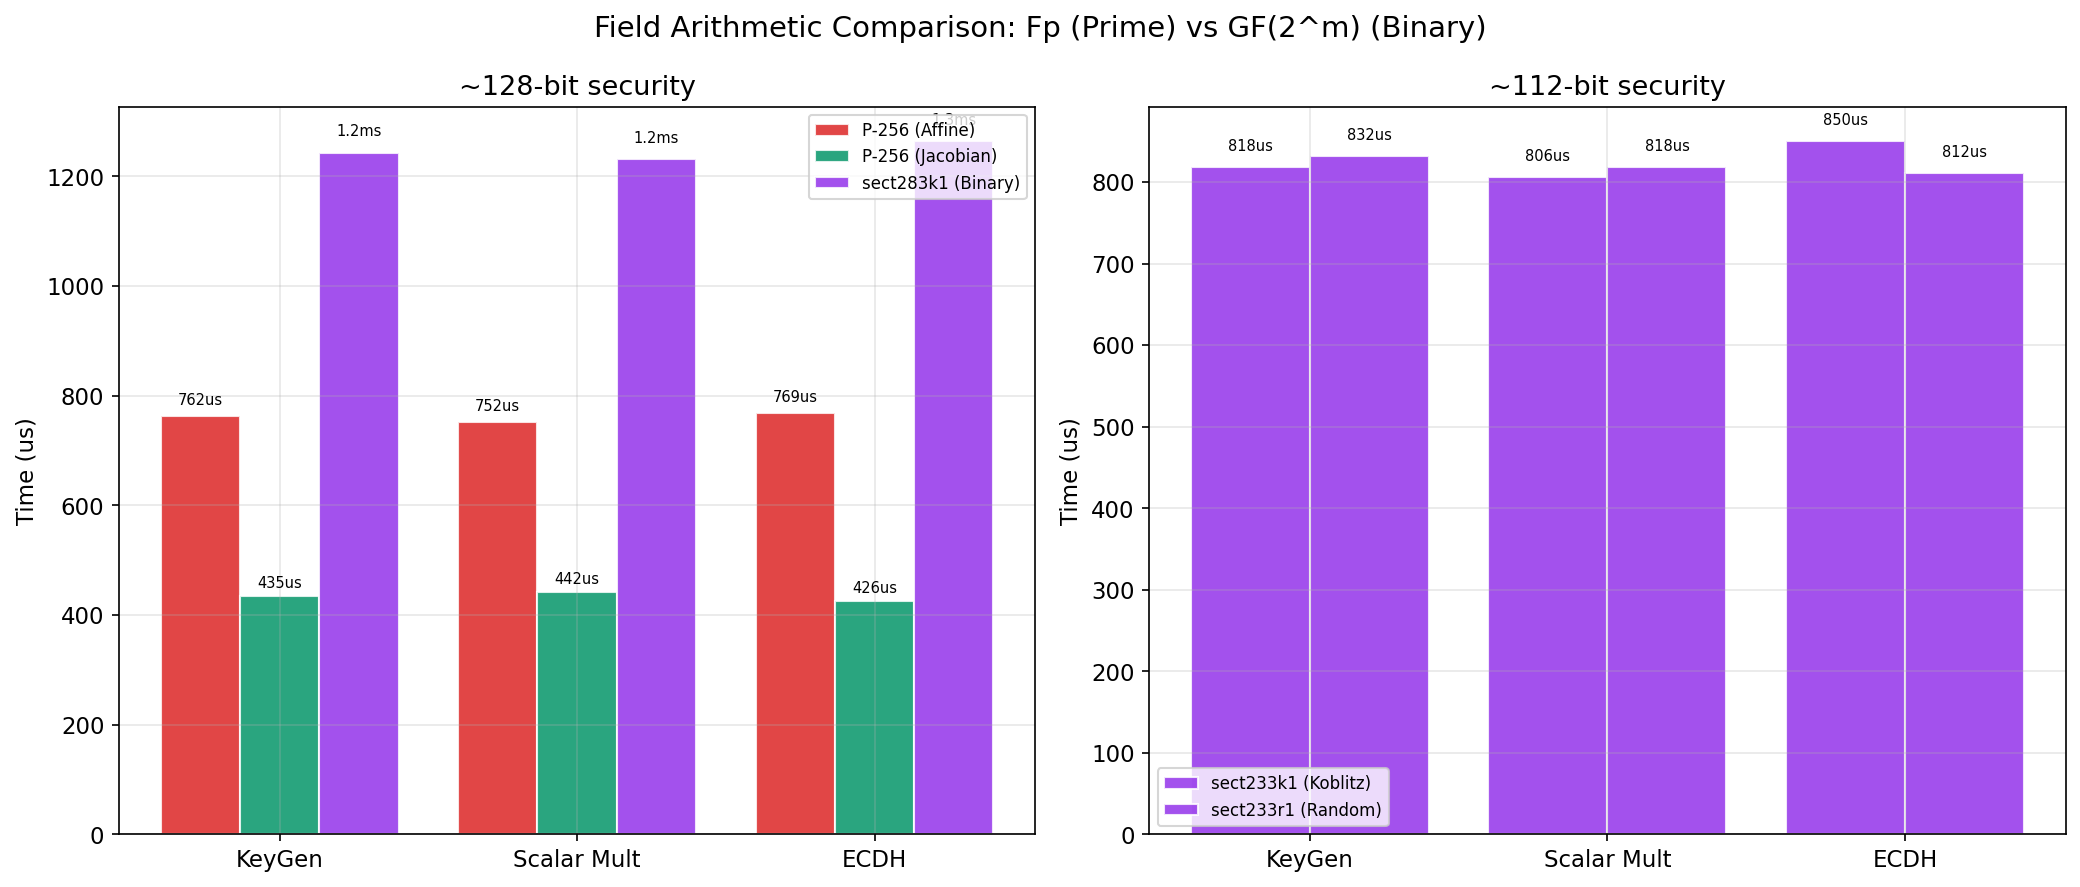
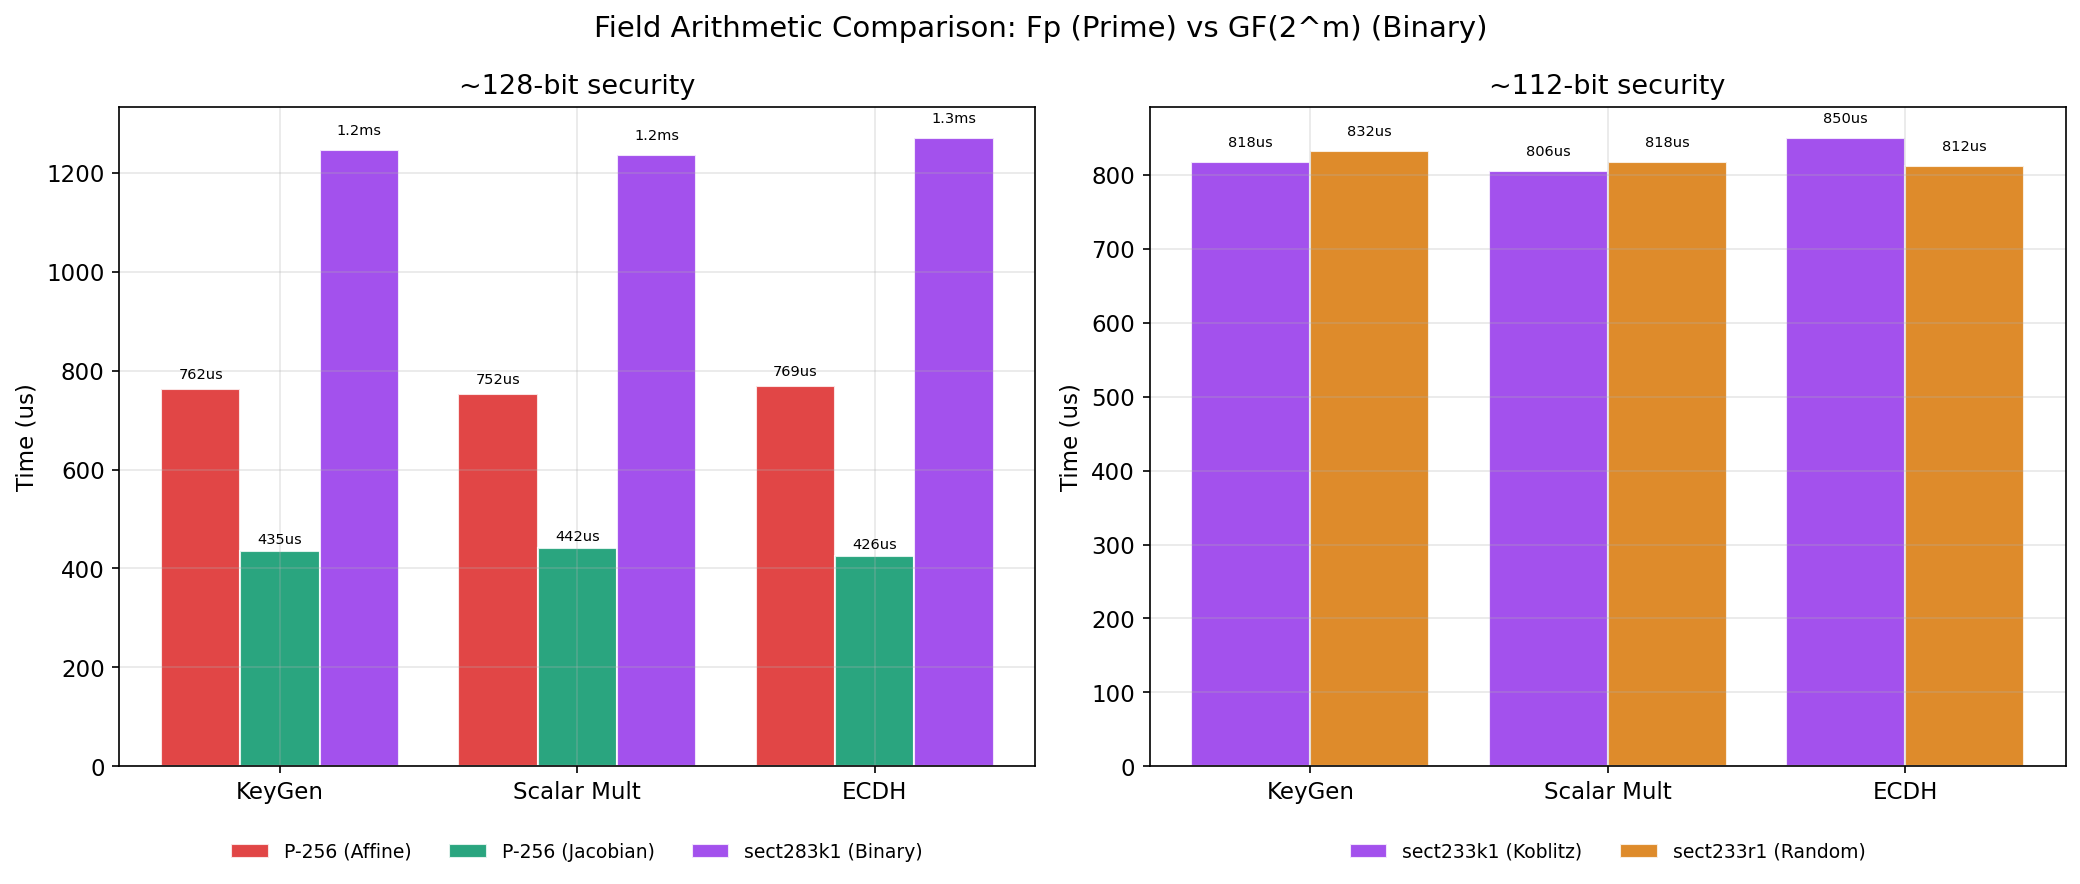
feat: add Pollard rho attack GIF generation and related images for enhanced presentation

diff --git a/docs/presentacion_defensa/presentacion_defensa.tex b/docs/presentacion_defensa/presentacion_defensa.tex
@@ -16,6 +16,7 @@
 \usepackage{amsmath,amssymb}
 \usepackage{booktabs}
 \usepackage{graphicx}
+\usepackage{animate}   % rho de Pollard animado dentro de una sola diapositiva
 \usepackage{tikz}
 \usetikzlibrary{positioning,arrows.meta,arrows,calc,fit,backgrounds}
 \newsavebox{\arqbox}   % caja para capturar el diagrama de arquitectura
@@ -210,15 +211,6 @@
       \end{block}
     \end{column}
   \end{columns}
-  \vfill
-  \footnotesize\centering El instrumento de medida es parte del objetivo: un
-  \alert{banco de pruebas propio} en C++17, contenedorizado y automatizado de extremo a
-  extremo, donde cada resultado se \textbf{reproduce con un comando}.
-  \note{Implemento ambos en C++17. Tres ejes, cada uno una pregunta. Separar álgebra de
-  implementación. El cuarto elemento es el instrumento: banco de pruebas propio,
-  arquitectura reproducible (Docker+semilla fija), medicion sin sesgos
-  (calentamiento+repeticiones+mediana), C++17+NTL/GMP, todo automatizado (make reproduce).
-  Detalle en la seccion de ingenieria.}
 \end{frame}
 
 %==============================================================================
@@ -478,28 +470,38 @@
 
 \begin{frame}{Atacar el ECDLP: el algoritmo rho de Pollard}
   \begin{columns}[c]
-    \begin{column}{0.44\textwidth}
-      \footnotesize
-      Mejor ataque \alert{genérico} conocido:
-      \begin{itemize}\footnotesize
-        \item Paseo \alert{pseudoaleatorio} sobre el grupo de puntos.
-        \item Por la \alert{paradoja del cumpleaños}, aparece pronto una \alert{colisión}:
-              el camino entra en un ciclo (forma de $\rho$: cola $+$ ciclo).
-        \item Detección de ciclo con poca memoria (Floyd: tortuga/liebre). De la colisión se
-              despeja $k$.
-      \end{itemize}
-      \vspace{0.5ex}
-      \begin{block}{Coste}
-        $O(\sqrt{n})$ en tiempo, $O(1)$ en memoria $\Rightarrow$ \alert{exponencial} en bits.
-      \end{block}
-    \end{column}
-    \begin{column}{0.56\textwidth}
+    \begin{column}{0.64\textwidth}
       \centering
-      \figordemo[width=\textwidth]{imagenes/attack_pollard_rho.png}
+      % Animación en UNA sola página: 9 fotogramas (extraídos de
+      % results/pollard_rho.gif, regenerable y visualizable con `make pollard`).
+      % Se reproduce en bucle en visores con JavaScript (Adobe Acrobat, Foxit,
+      % PDF-XChange); en el resto (Okular, Evince...) queda el fotograma final
+      % como imagen fija (poster=last). Demo en vivo: `make pollard`.
+      \animategraphics[autoplay,loop,poster=last,width=\textwidth]{2}%
+        {imagenes/pollard/rho-}{0}{8}
+    \end{column}
+    \begin{column}{0.34\textwidth}
+      \centering
+      \figordemo[height=0.55\textheight]{imagenes/attack_pollard_rho_ciclo.png}
     \end{column}
   \end{columns}
-  \note{Rho de Pollard: paseo pseudoaleatorio, colision por cumpleanos, forma de rho, Floyd,
-  se despeja k. O(sqrt n) tiempo, O(1) memoria. NO confundir con rho para factorizacion.}
+
+  \vspace{0.3em}
+  \scriptsize\centering Paseo \alert{pseudoaleatorio} con cada punto escrito como
+  $R_i = a_i P + b_i Q$; por la \alert{paradoja del cumpleaños} llega la \alert{colisión}
+  $R_i = R_j$ y se despeja
+  $\boxed{\,k \equiv (a_i - a_j)\,(b_j - b_i)^{-1} \pmod{n}\,}$\\[0.3ex]
+  \textbf{Coste:} $O(\sqrt{n})$ tiempo, $O(1)$ memoria $\Rightarrow$ \alert{exponencial}
+  en bits.
+  \note{Rho de Pollard animado: paseo pseudoaleatorio sobre la curva y^2=x^3+2x+3 mod 83,
+  P=(0,13), n=43, Q=14P. Tortuga un paso, liebre dos (Floyd); colision en el paso 10 y se
+  despeja d=14, verificado. Derecha: estructura rho abstracta, cola lambda + ciclo mu (de
+  ahi el nombre del algoritmo). Formula: cada punto del paseo es R_i = a_i P + b_i Q; en la
+  colision R_i = R_j se igualan y se despeja k = (a_i-a_j)/(b_j-b_i) mod n. Por la paradoja
+  del cumpleanos la colision llega en ~sqrt(pi n/2) ~ 1.25 sqrt(n) pasos. O(sqrt n) tiempo,
+  O(1) memoria: exponencial en bits. NO confundir con el rho de factorizacion. La animacion
+  se reproduce sola en Acrobat/Foxit; en Okular/Evince se ve el fotograma final. Demo en
+  vivo: make pollard abre el GIF.}
 \end{frame}
 
 %==============================================================================
@@ -647,7 +649,7 @@
 \end{frame}
 
 %==============================================================================
-\section{Ingeniería del banco de pruebas}
+\section{Metodología experimental e implementación}
 
 \begin{frame}{Elección del \emph{stack}: C++17 + NTL/GMP}
   \small
@@ -656,18 +658,16 @@
       \textbf{Lo elegido}
       \begin{itemize}\footnotesize
         \setlength{\itemsep}{2pt}
-        \item \alert{C++17}: control total del camino caliente; sin recolector de basura
+        \item \alert{C++17}: control total; sin recolector de basura
               ni intérprete que contaminen los tiempos.
         \item \alert{NTL 11.5.1 sobre GMP 6.3.0}: la referencia en aritmética de precisión
               arbitraria (\texttt{ZZ\_p} para $\mathbb{F}_p$, \texttt{GF2E} para
               $\mathbb{F}_{2^m}$).
-        \item \alert{SHA-256 propio} (FIPS 180-4): el hash de ECDSA sin dependencias
-              externas que alteren las medidas.
-        \item OpenSSL 3.0.2: \textbf{solo} como \emph{baseline} externo de contraste.
+        \item OpenSSL 3.0.2: \textbf{solo} como baseline externo de contraste.
       \end{itemize}
     \end{column}
     \begin{column}{0.46\textwidth}
-      \textbf{Lo descartado (y por qué)}
+      \textbf{Lo descartado}
       \begin{itemize}\footnotesize
         \setlength{\itemsep}{2pt}
         \item \textbf{Python / Sage}: esconden justo la aritmética que se quiere estudiar
@@ -687,28 +687,37 @@
   ensamblador, no los algoritmos.}
 \end{frame}
 
-\begin{frame}{Tres retos de ingeniería (y cómo se resolvieron)}
+\begin{frame}{Los retos}
   \begin{columns}[t]
     \begin{column}{0.5\textwidth}
-      \begin{block}{1. Medir sin engañarse}
-        \scriptsize Ruido del SO, cachés frías, \emph{outliers} $\Rightarrow$
-        \alert{3 iteraciones de calentamiento} descartadas; \alert{$N=100$} medidas por
-        configuración (\texttt{std::chrono}, resolución de µs); \alert{mediana} como
-        métrica principal (robusta a \emph{outliers}, p.\,ej.\ keygen RSA); media,
-        desviación y P5/P95 guardadas en los CSV.
+      \begin{block}{1. Medición precisa}
+        \scriptsize
+        \begin{itemize}\scriptsize
+          \setlength{\itemsep}{1pt}
+          \item Enemigos: ruido del SO, cachés frías, \emph{outliers}
+          \item \alert{3 calentamientos} descartados
+          \item \alert{$N=100$} medidas (\texttt{std::chrono}, µs)
+          \item \alert{Mediana} como métrica principal
+        \end{itemize}
       \end{block}
       \begin{block}{2. Entorno determinista}
-        \scriptsize ``En mi máquina sale otra cosa'' $\Rightarrow$ \alert{Docker}
-        (Ubuntu 22.04; GMP 6.3.0 y NTL 11.5.1 compilados desde fuente); compilador fijo
-        \texttt{g++ -O2}, sin \texttt{-march=native}; ejecución \alert{monohilo}.
+        \scriptsize
+        \begin{itemize}\scriptsize
+          \setlength{\itemsep}{1pt}
+          \item \alert{Docker}: Ubuntu 22.04, GMP/NTL desde fuente
+          \item \texttt{g++ -O2} fijo, sin \texttt{-march=native}
+          \item Ejecución \alert{monohilo}
+        \end{itemize}
       \end{block}
     \end{column}
     \begin{column}{0.5\textwidth}
       \begin{block}{3. Comparar con las mismas entradas}
-        \scriptsize \alert{RNG con semilla fija} ($s{=}0$): todos los algoritmos ven el
-        mismo flujo aleatorio $\Rightarrow$ comparación \alert{pareada}. Y como todo
-        depende de él, el RNG se \alert{validó estadísticamente}: uniformidad ($\chi^2$,
-        Kolmogorov--Smirnov), rachas, autocorrelación y entropía.
+        \scriptsize
+        \begin{itemize}\scriptsize
+          \setlength{\itemsep}{1pt}
+          \item \alert{Semilla fija} ($s{=}0$) $\Rightarrow$ comparación \alert{pareada}
+          \item RNG \alert{validado}: $\chi^2$, K--S, rachas, autocorrelación, entropía
+        \end{itemize}
       \end{block}
       \begin{alertblock}{En cifras}
         \scriptsize 72 configuraciones medidas (24 RSA $+$ 18 ECC afín $+$ 15 Jacobiano
@@ -921,36 +930,36 @@
                                                \texttt{std::chrono} (µs)};
     \node[data, right=0.55cm of iters] (raw) {\texttt{raw.csv}\\todas las muestras};
 
-    % ------- fila 2: el análisis -------
-    \node[fase, below=0.75cm of op] (stats) {media · desviación\\mín/máx · P5/P95};
-    \node[pick, right=0.55cm of stats] (median) {\textbf{mediana}\\métrica principal};
-    \node[data, right=0.55cm of median] (summary) {\texttt{summary.csv}\\72 configuraciones};
-    \node[data, right=0.55cm of summary] (charts) {gráficas y tablas\\del capítulo de
-                                                   resultados};
+    % ------- fila 2: el análisis (en serpiente, de derecha a izquierda) -------
+    \node[fase, below=0.55cm of raw] (stats) {media · desviación\\mín/máx · P5/P95};
+    \node[pick, left=0.55cm of stats] (median) {\textbf{mediana}\\métrica principal};
+    \node[data, left=0.55cm of median] (summary) {\texttt{summary.csv}\\72 configuraciones};
+    \node[data, left=0.55cm of summary] (charts) {gráficas y tablas\\del capítulo de
+                                                  resultados};
 
     \draw[pipe] (op) -- (warm);
     \draw[pipe] (warm) -- (iters);
     \draw[pipe] (iters) -- (raw);
-    \draw[pipe] (raw.south) to[out=-90, in=90] ([xshift=1.2cm]stats.north);
+    \draw[pipe] (raw) -- (stats);
     \draw[pipe] (stats) -- (median);
     \draw[pipe] (median) -- (summary);
     \draw[pipe] (summary) -- (charts);
 
     % ------- por qué la mediana: outliers reales de keygen RSA -------
-    \begin{scope}[shift={(0.3,-4.35)}]
-      \node[anchor=west, font=\scriptsize\bfseries, text=UGRdark] at (-0.3,0.75)
+    \begin{scope}[shift={(0.3,-3.75)}]
+      \node[anchor=west, font=\scriptsize\bfseries, text=UGRdark] at (-0.3,0.62)
         {¿Por qué la mediana?};
-      \draw[black!45] (0,0) -- (11.2,0);
+      \draw[black!45] (0,0) -- (10.8,0);
       \foreach \x in {0.5,0.75,0.95,1.15,1.3,1.5,1.65,1.85,2.05,2.3}
         \fill[UGRsoft] (\x,0) circle (2.3pt);
-      \fill[UGRsoft] (10.6,0) circle (2.3pt);
-      \node[font=\tiny, text=black!60, anchor=north] at (10.6,-0.18)
+      \fill[UGRsoft] (10.2,0) circle (2.3pt);
+      \node[font=\tiny, text=black!60, anchor=north east] at (10.9,-0.18)
         {\emph{outlier} (búsqueda de primos con mala suerte)};
-      \draw[UGRgreen, very thick] (1.4,-0.22) -- (1.4,0.22)
-        node[above, font=\tiny\bfseries, text=UGRgreen] {mediana};
-      \draw[UGRaccent, very thick] (2.2,-0.22) -- (2.2,0.22)
-        node[above, font=\tiny\bfseries, text=UGRaccent, xshift=0.55cm]
-        {media (arrastrada)};
+      \draw[UGRgreen, very thick] (1.4,-0.22) -- (1.4,0.22);
+      \node[font=\tiny\bfseries, text=UGRgreen, anchor=east] at (1.25,0.42) {mediana};
+      \draw[UGRaccent, very thick] (2.4,-0.22) -- (2.4,0.22);
+      \node[font=\tiny\bfseries, text=UGRaccent, anchor=west] at (2.55,0.42)
+        {media (arrastrada por el \emph{outlier})};
     \end{scope}
   \end{tikzpicture}
   \note{Flujo estadistico por configuracion: se ejecutan 3 iteraciones de calentamiento que
@@ -995,7 +1004,6 @@
   \footnotesize \textbf{Firma:} ECC $\sim$2.6$\times$ más rápida \; · \;
   \textbf{Verificación:} \alert{RSA} $\sim$38$\times$ más rápida (exponente público
   $e=65537$, solo 2 bits a 1).\\
-  \alert{No hay ganador absoluto:} depende del perfil de uso.
   \note{Firma ECC 2.6x. Verificacion RSA 38x por e=65537. No hay ganador absoluto: un
   servidor que emite firmas en masa prefiere ECC; un cliente que valida certificados, RSA.}
 \end{frame}
@@ -1009,7 +1017,7 @@
     \begin{column}{0.34\textwidth}
       \footnotesize
       \begin{itemize}\footnotesize
-        \item Las Jacobianas \alert{evitan la inversión modular} (visto en fundamentos).
+        \item Las Jacobianas \alert{evitan la inversión modular}.
         \item Medido: \alert{1.70--1.93$\times$} (media $\sim$1.8$\times$).
       \end{itemize}
       \vfill
@@ -1101,29 +1109,6 @@
   ubicuo, compatibilidad; ideal PKI heredada, JWT verificados muchas veces, legados. No hay
   ganador absoluto: ventaja de ECC estructural y crece; RSA gana en verificacion. Separar
   algebra de ingenieria.}
-\end{frame}
-
-\begin{frame}{ECC hoy en día: ¿dónde se usa?}
-  \footnotesize
-  \begin{itemize}\footnotesize
-    \item \textbf{Web (TLS 1.3):} $\sim$97--98\% de los handshakes usan ECDHE; \alert{X25519}
-      por defecto en navegadores.
-    \item \textbf{Passkeys / FIDO2:} firmadas con \alert{ECDSA P-256}.
-    \item \textbf{Mensajería y redes:} Signal, WhatsApp, SSH, WireGuard $\to$
-      \alert{Curve25519 / Ed25519}.
-    \item \textbf{Criptomonedas:} Bitcoin y Ethereum $\to$ \alert{secp256k1} (la curva de
-      Koblitz del TFG).
-    \item \textbf{Documentos:} pasaportes electrónicos (ICAO Doc 9303).
-  \end{itemize}
-  \vspace{0.5ex}
-  \begin{alertblock}{La transición post-cuántica es \emph{híbrida}, no una retirada}
-    \scriptsize \texttt{X25519MLKEM768} (X25519 $+$ ML-KEM-768) ya cubre $>$40\% del tráfico
-    HTTPS humano en Cloudflare, por defecto en Chrome, Firefox, OpenSSL y Apple. X25519 sigue
-    como \alert{salvaguarda clásica}.
-  \end{alertblock}
-  \note{TLS 97-98 por ciento ECDHE, X25519 default. Passkeys ECDSA P-256. Signal/WhatsApp/SSH/WireGuard
-  Curve25519/Ed25519. Bitcoin/Ethereum secp256k1. Pasaportes ICAO. Post-cuantico HIBRIDO:
-  X25519MLKEM768 >40 por ciento trafico Cloudflare, default en navegadores. ECC no se retira.}
 \end{frame}
 
 \begin{frame}{Trabajo futuro}
@@ -1228,6 +1213,26 @@
   Se calcula $d_p=d\bmod(p-1)$, $d_q=d\bmod(q-1)$, $q_{inv}=q^{-1}\bmod p$. Recombinación de
   Garner: $m_1=c^{d_p}\bmod p$, $m_2=c^{d_q}\bmod q$, $h=q_{inv}(m_1-m_2)\bmod p$,
   $m=m_2+hq$. Acelera $\approx 3.5\times$ (dos exponenciaciones a la mitad de bits).
+\end{frame}
+
+\begin{frame}[noframenumbering]{Respaldo - ECC hoy en día: ¿dónde se usa?}
+  \footnotesize
+  \begin{itemize}\footnotesize
+    \item \textbf{Web (TLS 1.3):} $\sim$97--98\% de los handshakes usan ECDHE; \alert{X25519}
+      por defecto en navegadores.
+    \item \textbf{Passkeys / FIDO2:} firmadas con \alert{ECDSA P-256}.
+    \item \textbf{Mensajería y redes:} Signal, WhatsApp, SSH, WireGuard $\to$
+      \alert{Curve25519 / Ed25519}.
+    \item \textbf{Criptomonedas:} Bitcoin y Ethereum $\to$ \alert{secp256k1} (la curva de
+      Koblitz del TFG).
+    \item \textbf{Documentos:} pasaportes electrónicos (ICAO Doc 9303).
+  \end{itemize}
+  \vspace{0.5ex}
+  \begin{alertblock}{La transición post-cuántica es \emph{híbrida}, no una retirada}
+    \scriptsize \texttt{X25519MLKEM768} (X25519 $+$ ML-KEM-768) ya cubre $>$40\% del tráfico
+    HTTPS humano en Cloudflare, por defecto en Chrome, Firefox, OpenSSL y Apple. X25519 sigue
+    como \alert{salvaguarda clásica}.
+  \end{alertblock}
 \end{frame}
 
 \begin{frame}[noframenumbering]{Respaldo - la asociatividad de la ley de grupo}

diff --git a/scripts/visualize_benchmarks.py b/scripts/visualize_benchmarks.py
@@ -714,6 +714,8 @@ def chart_prime_vs_binary(df, output_dir):
     """Compare prime field (affine + Jacobian) vs binary field at same security."""
     # Security 128 bits: P-256 vs sect283k1
     # Security 112 bits: (no prime at 112, but we can compare sect233k1/r1)
+    # Optional 4th tuple element: explicit bar color. Needed when two curves of
+    # the same algorithm share a panel (both would get the same group color).
     comparisons = [
         ('~128-bit security', [
             ('ECC', 'P-256', 'P-256 (Affine)'),
@@ -722,7 +724,7 @@ def chart_prime_vs_binary(df, output_dir):
         ]),
         ('~112-bit security', [
             ('ECC_BINARY', 'sect233k1', 'sect233k1 (Koblitz)'),
-            ('ECC_BINARY', 'sect233r1', 'sect233r1 (Random)'),
+            ('ECC_BINARY', 'sect233r1', 'sect233r1 (Random)', '#D97706'),
         ]),
     ]
 
@@ -742,7 +744,8 @@ def chart_prime_vs_binary(df, output_dir):
         total_width = 0.8
         bar_width = total_width / max(n, 1)
 
-        for i, (algo, param, label) in enumerate(entries):
+        for i, entry in enumerate(entries):
+            algo, param, label = entry[:3]
             data = df[(df['algorithm'] == algo) & (df['params'] == param)]
             if data.empty:
                 continue
@@ -753,7 +756,7 @@ def chart_prime_vs_binary(df, output_dir):
                 vals.append(row['median_us'].values[0] if not row.empty else 0)
 
             offset = (i - n/2 + 0.5) * bar_width
-            color = group_colors.get(algo, '#888')
+            color = entry[3] if len(entry) > 3 else group_colors.get(algo, '#888')
             bars = ax.bar(x + offset, vals, bar_width, label=label,
                           color=color, edgecolor='white', alpha=0.85)
 
@@ -766,7 +769,9 @@ def chart_prime_vs_binary(df, output_dir):
         ax.set_xticklabels([op_labels.get(op, op) for op in ops])
         ax.set_ylabel('Time (us)')
         ax.set_title(title)
-        ax.legend(fontsize=8)
+        # legend outside the axes: anywhere inside lands on a bar or its label
+        ax.legend(fontsize=9, loc='upper center', bbox_to_anchor=(0.5, -0.09),
+                  ncols=len(entries), frameon=False)
 
     plt.suptitle('Field Arithmetic Comparison: Fp (Prime) vs GF(2^m) (Binary)', fontsize=14)
     plt.tight_layout()